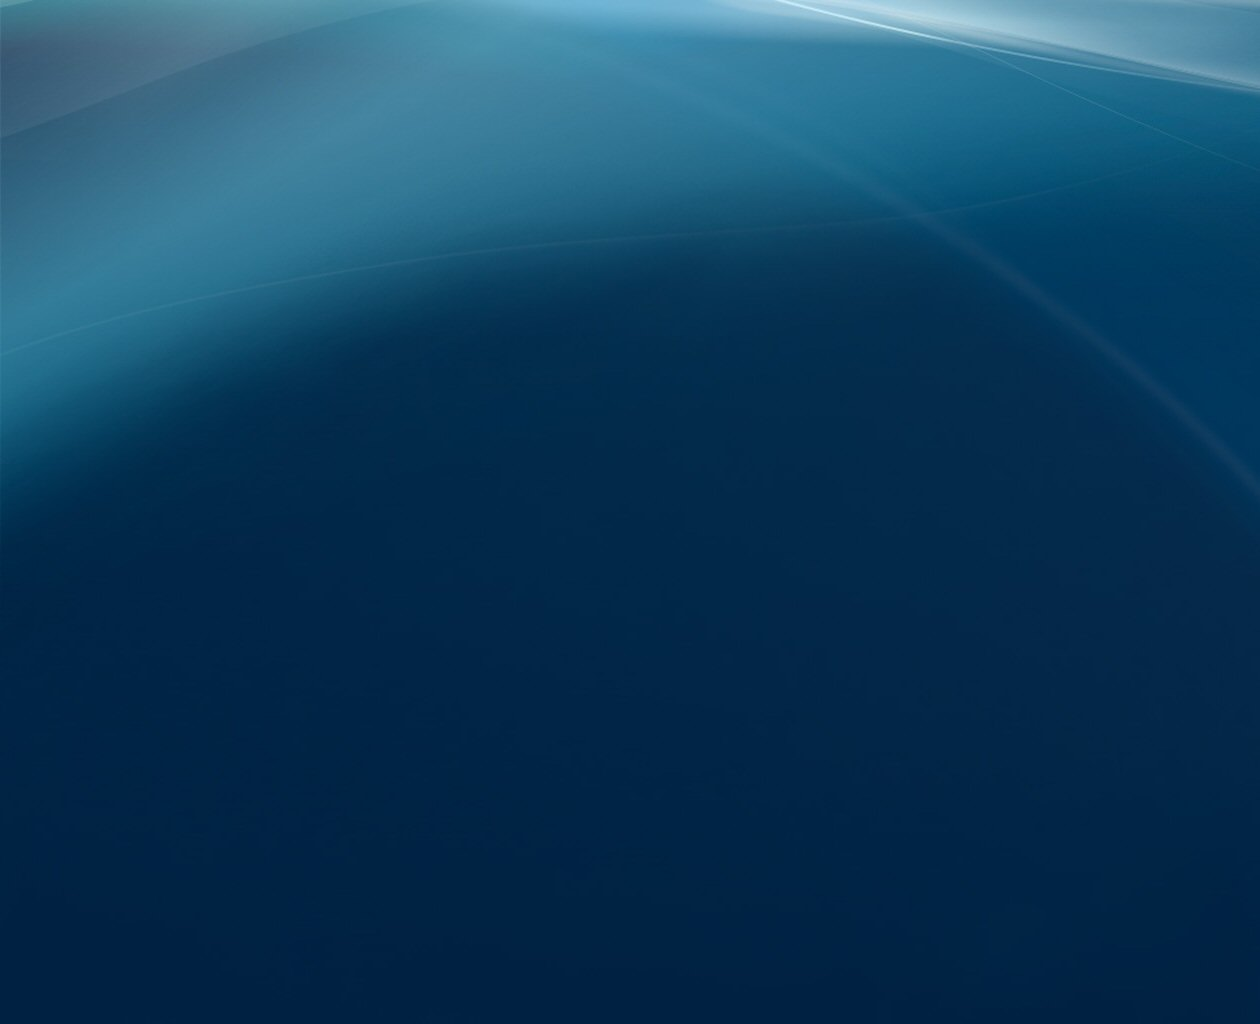
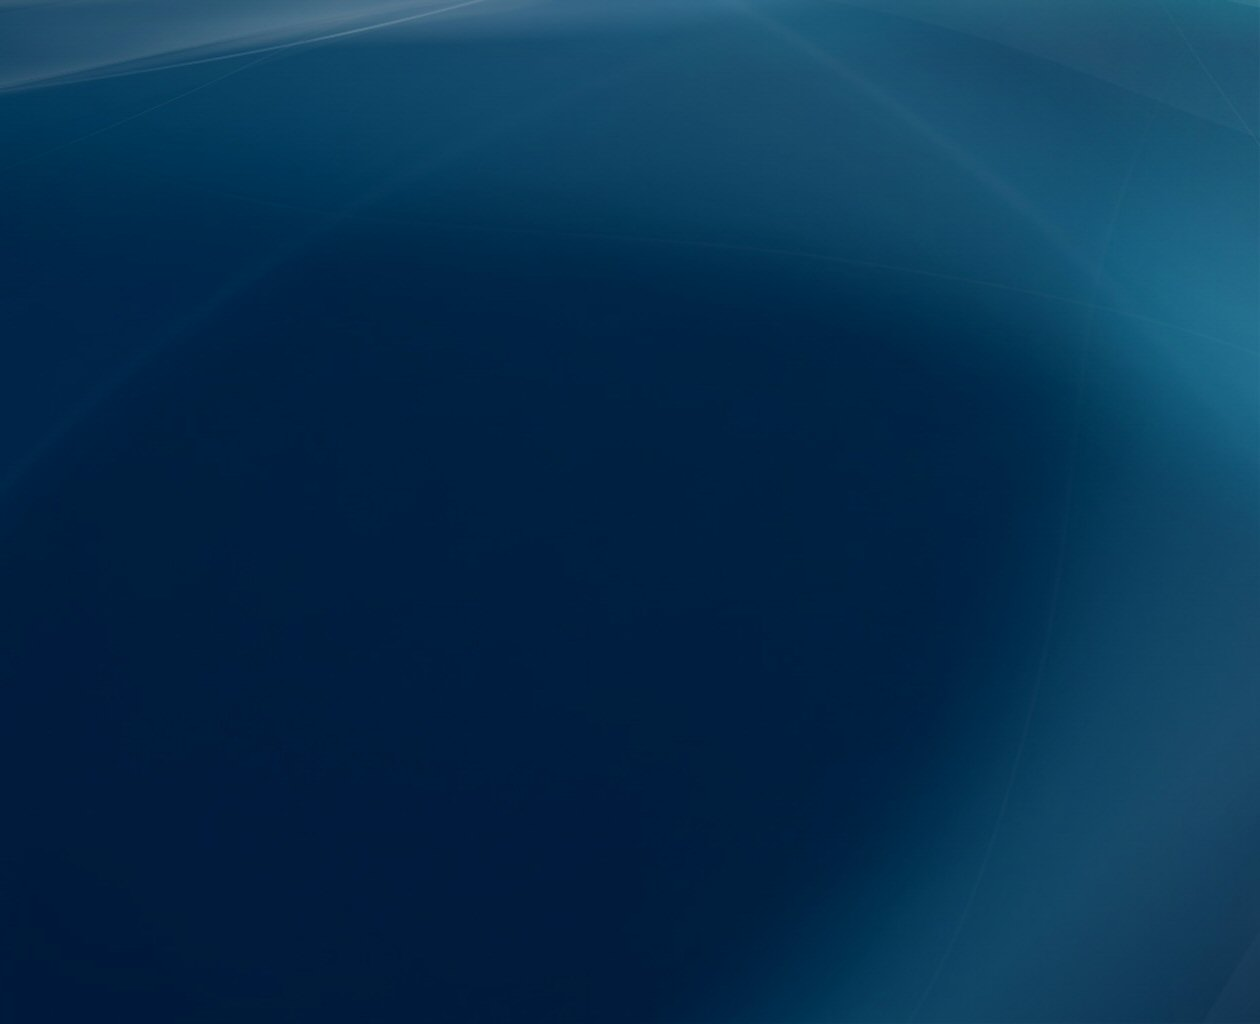
Modified BG

diff --git a/html/css/main.css b/html/css/main.css
@@ -16,7 +16,7 @@ margin-right: auto;
 }
 
 .bg {
-    background: url(../images/bg.jpg) no-repeat center center fixed; 
+    background: url(../images/bg.jpg) no-repeat center 0 fixed; 
     -webkit-background-size: cover;
     -moz-background-size: cover;
     -o-background-size: cover;
